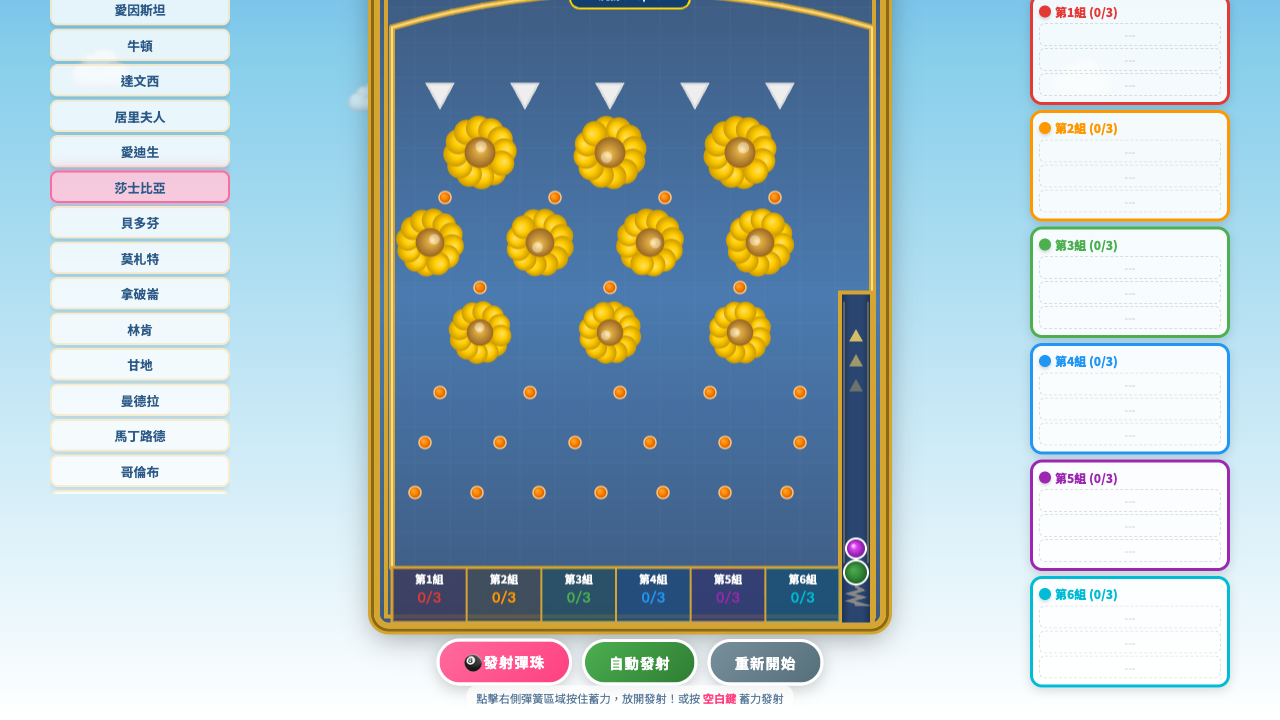
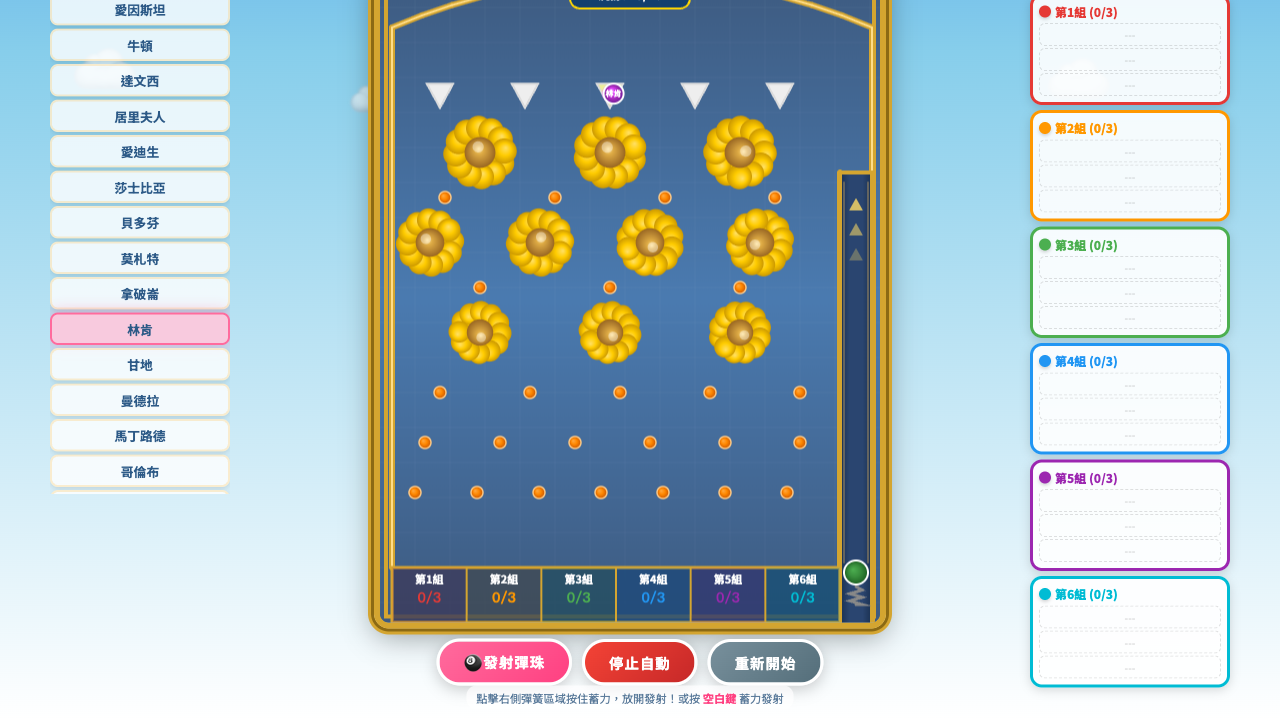
改善彈珠台牆壁和拋物線的物理效果，調整相關註解以增強可讀性

diff --git a/templates/index.html b/templates/index.html
@@ -548,23 +548,23 @@ for (let i = 0; i < 5; i++) {
 }
 
 
-// Walls - clean frame with arc extending full width
+// Walls - frame with rounder arc and proper lane walls
 const walls = [];
 function addWall(x1, y1, x2, y2) { walls.push({x1, y1, x2, y2}); }
 
 const FRAME_LEFT = 12;
 const FRAME_TOP = 55;
+const LANE_WALL_TOP = 200;  // Lane walls start here (taller lane)
 
 // LEFT WALL
 addWall(FRAME_LEFT, FRAME_TOP, FRAME_LEFT, H - SLOT_H);
 
-// TOP ARC - extends FULL WIDTH including over lane area
-// Ball hits arc and bounces into playfield
+// TOP ARC - more rounded (higher arcHeight)
 const arcStartX = FRAME_LEFT;
-const arcEndX = W - 8;  // Full width to lane outer wall
+const arcEndX = W - 8;
 const arcCx = (arcStartX + arcEndX) / 2;
 const halfWidth = (arcEndX - arcStartX) / 2;
-const arcHeight = 35;
+const arcHeight = 50;  // More rounded arc!
 
 const arcR = (arcHeight * arcHeight + halfWidth * halfWidth) / (2 * arcHeight);
 const arcCy = FRAME_TOP - arcHeight + arcR;
@@ -581,7 +581,10 @@ for (let i = 0; i < 16; i++) {
   addWall(x1, y1, x2, y2);
 }
 
-// LANE OUTER WALL - right edge, from arc down
+// LANE LEFT WALL - prevents balls from bouncing back into lane
+addWall(LANE_X, LANE_WALL_TOP, LANE_X, H - SLOT_H);
+
+// LANE OUTER WALL - right edge
 addWall(W - 8, FRAME_TOP, W - 8, H);
 
 function buildSlots() {
@@ -806,26 +809,16 @@ function updatePhysics(dt) {
 
     // === 三段式軌道演義 ===
 
-    // 【起跑：線性衝刺】Sprint phase - ball racing up
+    // 【起跑：線性衝刺】Sprint phase - ball racing up the lane
     if (ball.phase === 'sprint') {
-      ball.vy += GRAVITY * 0.6 * dt;
-      // Trigger apex earlier (y < 250) to ensure ball turns before hitting arc
-      if (ball.y < 250) {
-        ball.phase = 'apex';
-        ball.apexTimer = 0.3;
-        ball.vx = -400; // Very strong leftward push!
-        ball.vy = 50; // Start falling immediately
-        playTone(880, 0.1, 'sine', 0.3);
-      }
+      ball.vy += GRAVITY * 0.5 * dt;  // Slightly reduced gravity
+      // Ball will hit the arc and naturally bounce into playfield
+      // The arc's curve will deflect the ball leftward
     }
-    // 【頂端：拋物線過渡】Apex phase - curve into playfield
+    // 【頂端：滯空轉向】Apex phase - triggered by hitting arc
     else if (ball.phase === 'apex') {
       ball.apexTimer -= dt;
-      ball.vy += GRAVITY * 0.6 * dt;
-      // Keep pushing left
-      if (ball.x > LANE_X) {
-        ball.vx = Math.min(ball.vx, -350);
-      }
+      ball.vy += GRAVITY * 0.5 * dt;
       if (ball.apexTimer <= 0) {
         ball.phase = 'plunge';
         playTone(440, 0.15, 'triangle', 0.4);
@@ -990,8 +983,8 @@ function draw() {
     ctx.beginPath(); ctx.moveTo(w.x1, w.y1); ctx.lineTo(w.x2, w.y2); ctx.stroke();
   }
 
-  // Launch lane - shorter, only bottom portion
-  const LANE_VISUAL_TOP = 320;  // Match wall LANE_TOP
+  // Launch lane - taller now
+  const LANE_VISUAL_TOP = 200;  // Match wall LANE_WALL_TOP
   const laneGrad = ctx.createLinearGradient(LANE_X, 0, LANE_X + LANE_W, 0);
   laneGrad.addColorStop(0, '#1a3050');
   laneGrad.addColorStop(0.3, '#2a4570');
